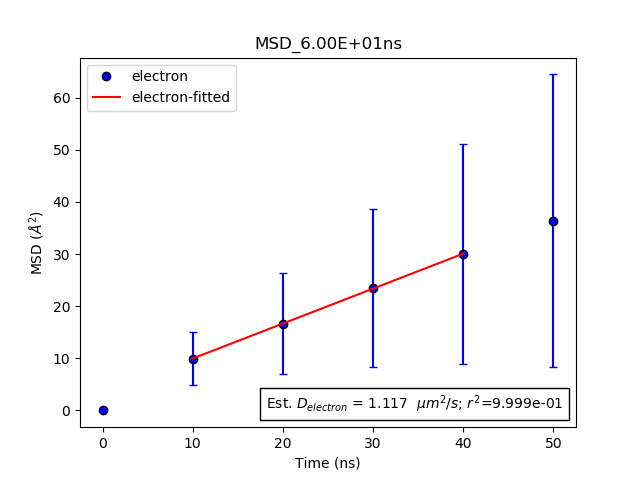
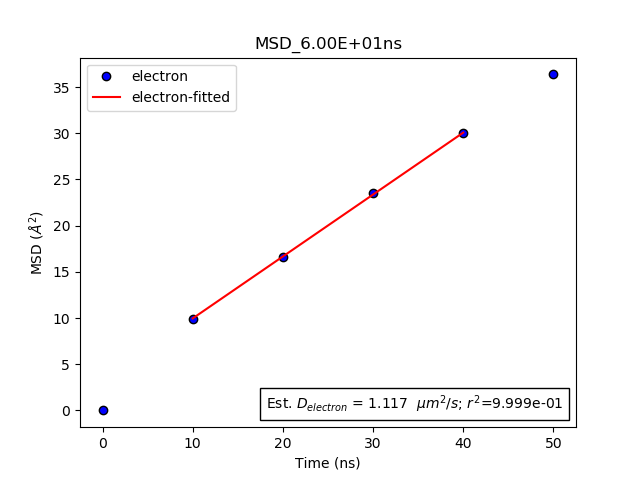
modify example files with earlier commit modifications

diff --git a/examples/BVO/MSDFiles/generateMSDPlot.py b/examples/BVO/MSDFiles/generateMSDPlot.py
@@ -21,13 +21,15 @@ nDim = 3
 Temp = 300  # K
 nHoles = 0
 speciesCount = np.array([nElectrons, nHoles])
-displayErrorBars = 1
+displayErrorBars = 0
 reprTime = 'ns'
 reprDist = 'angstrom'
 report = 1
 systemDirectoryPath = os.path.dirname(
                                 os.path.dirname(os.path.realpath(__file__)))
+# fileFormatIndex: 0=VASP; 1=VESTA
+fileFormatIndex = 1
 
-materialMSD(systemDirectoryPath, systemSize, pbc, nDim, Temp, speciesCount,
-            tFinal, nTraj, timeInterval, msdTFinal, trimLength,
+materialMSD(systemDirectoryPath, fileFormatIndex, systemSize, pbc, nDim, Temp,
+            speciesCount, tFinal, nTraj, timeInterval, msdTFinal, trimLength,
             displayErrorBars, reprTime, reprDist, report)

diff --git a/examples/Hematite/MSDFiles/generateMSDPlot.py b/examples/Hematite/MSDFiles/generateMSDPlot.py
@@ -28,6 +28,9 @@ report = 1
 systemDirectoryPath = os.path.dirname(
                                 os.path.dirname(os.path.realpath(__file__)))
 
-materialMSD(systemDirectoryPath, systemSize, pbc, nDim, Temp, speciesCount,
-            tFinal, nTraj, timeInterval, msdTFinal, trimLength,
+# fileFormatIndex: 0=VASP; 1=VESTA
+fileFormatIndex = 1
+
+materialMSD(systemDirectoryPath, fileFormatIndex, systemSize, pbc, nDim, Temp,
+            speciesCount, tFinal, nTraj, timeInterval, msdTFinal, trimLength,
             displayErrorBars, reprTime, reprDist, report)

diff --git a/examples/BVO/generateInputFiles.py b/examples/BVO/generateInputFiles.py
@@ -17,6 +17,9 @@ nmax = 0
 kmax = 4
 generatePrecomputedArray = 1
 systemDirectoryPath = os.path.dirname(os.path.realpath(__file__))
+# fileFormatIndex: 0=VASP; 1=VESTA
+fileFormatIndex = 1
 
-materialSetup(systemDirectoryPath, systemSize, pbc, generateHopNeighborList,
-              generateCumDispList, alpha, nmax, kmax, generatePrecomputedArray)
+materialSetup(systemDirectoryPath, fileFormatIndex, systemSize, pbc,
+              generateHopNeighborList, generateCumDispList, alpha, nmax, kmax,
+              generatePrecomputedArray)

diff --git a/examples/Hematite/generateInputFiles.py b/examples/Hematite/generateInputFiles.py
@@ -17,6 +17,9 @@ nmax = 0
 kmax = 4
 generatePrecomputedArray = 1
 systemDirectoryPath = os.path.dirname(os.path.realpath(__file__))
+# fileFormatIndex: 0=VASP; 1=VESTA
+fileFormatIndex = 1
 
-materialSetup(systemDirectoryPath, systemSize, pbc, generateHopNeighborList,
-              generateCumDispList, alpha, nmax, kmax, generatePrecomputedArray)
+materialSetup(systemDirectoryPath, fileFormatIndex, systemSize, pbc,
+              generateHopNeighborList, generateCumDispList, alpha, nmax, kmax,
+              generatePrecomputedArray)

diff --git a/examples/BVO/RunFiles/Run.py b/examples/BVO/RunFiles/Run.py
@@ -23,5 +23,9 @@ report = 1
 overWrite = 1
 systemDirectoryPath = os.path.dirname(
                                 os.path.dirname(os.path.realpath(__file__)))
-materialRun(systemDirectoryPath, systemSize, pbc, Temp, speciesCount, tFinal,
-            nTraj, timeInterval, randomSeed, report, overWrite)
+# fileFormatIndex: 0=VASP; 1=VESTA
+fileFormatIndex = 1
+
+materialRun(systemDirectoryPath, fileFormatIndex, systemSize, pbc, Temp,
+            speciesCount, tFinal, nTraj, timeInterval, randomSeed, report,
+            overWrite)

diff --git a/examples/Hematite/RunFiles/Run.py b/examples/Hematite/RunFiles/Run.py
@@ -23,5 +23,9 @@ report = 1
 overWrite = 1
 systemDirectoryPath = os.path.dirname(
                                 os.path.dirname(os.path.realpath(__file__)))
-materialRun(systemDirectoryPath, systemSize, pbc, Temp, speciesCount, tFinal,
-            nTraj, timeInterval, randomSeed, report, overWrite)
+# fileFormatIndex: 0=VASP; 1=VESTA
+fileFormatIndex = 1
+
+materialRun(systemDirectoryPath, fileFormatIndex, systemSize, pbc, Temp,
+            speciesCount, tFinal, nTraj, timeInterval, randomSeed, report,
+            overWrite)
